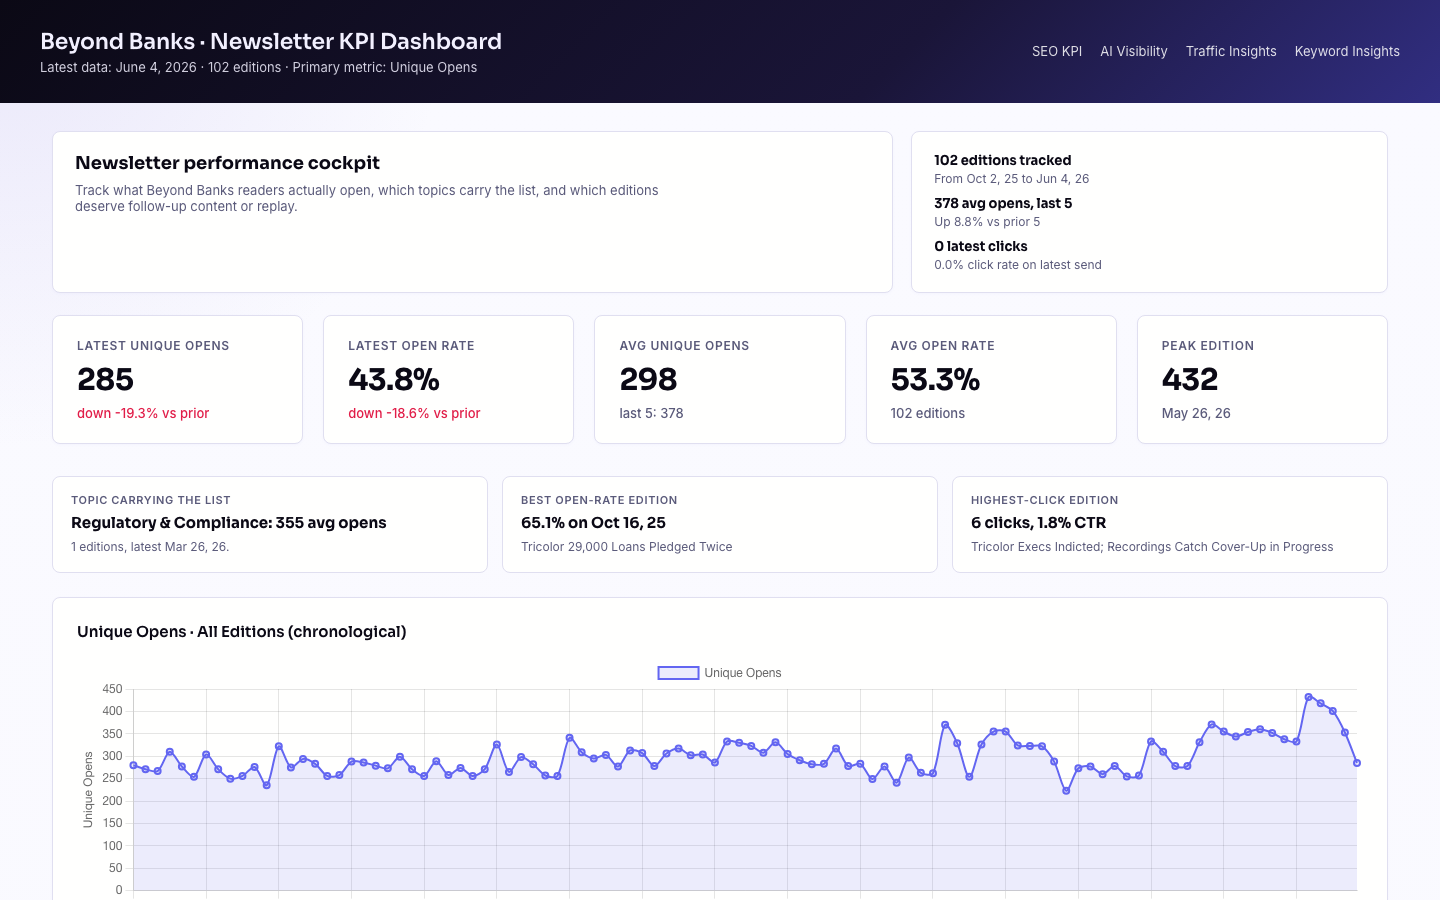
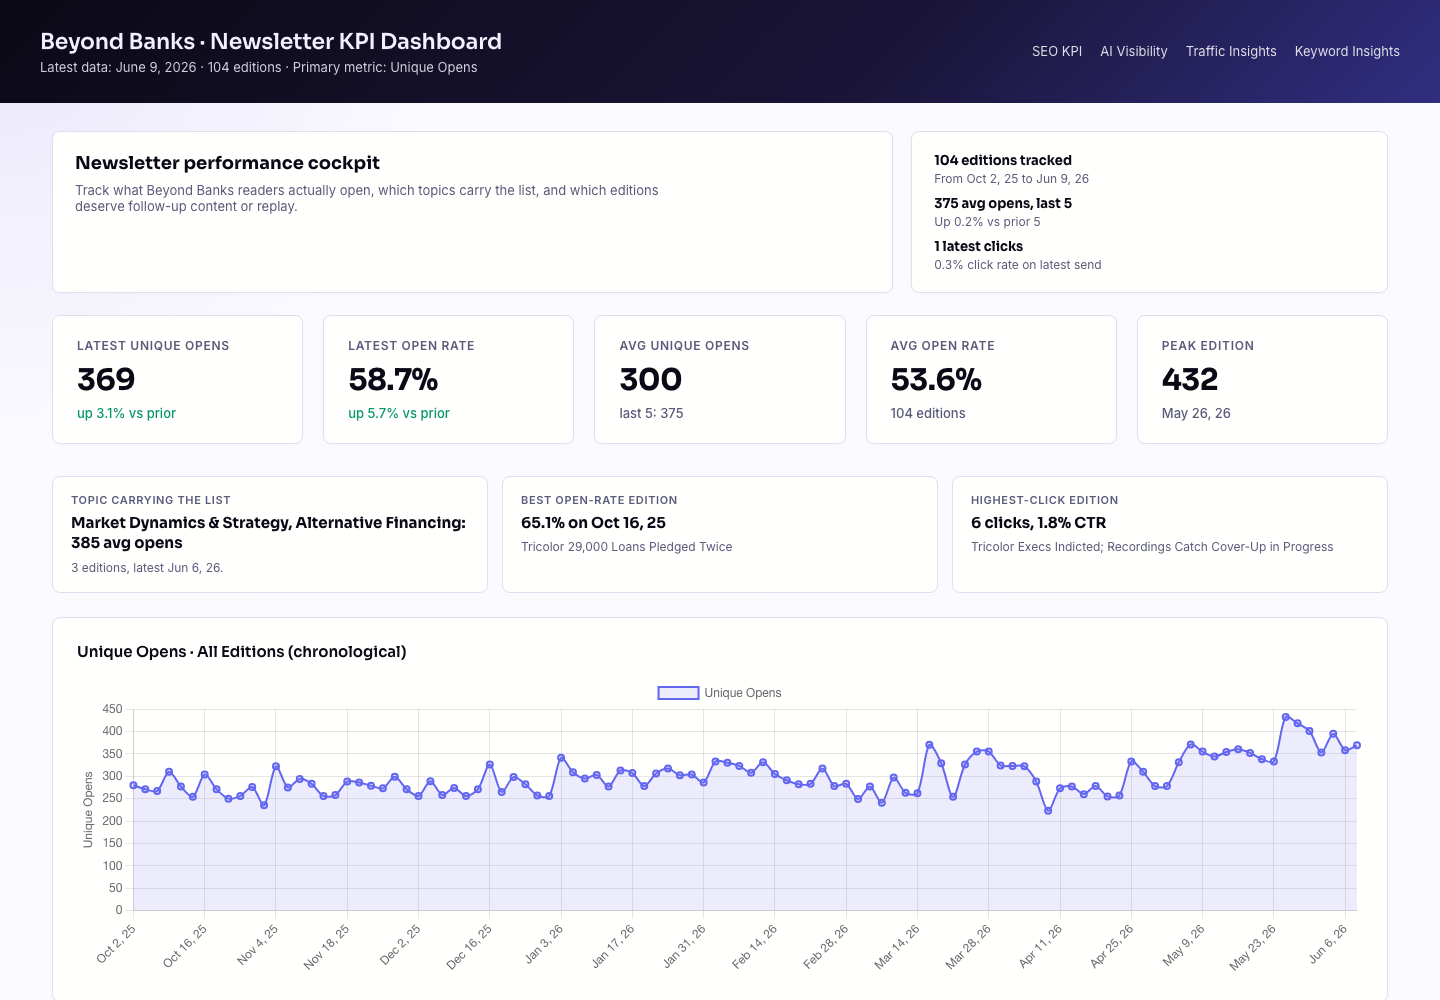
Update weekly status newsletter metrics

diff --git a/index.html b/index.html
@@ -62,7 +62,7 @@ footer{margin-top:36px;padding-top:18px;border-top:1px solid var(--border);font-
 <div class="report-actions" aria-label="Report actions"><a class="pdf-button" href="weekly-status-jordan-2026-06-04-to-2026-06-10.pdf" download>Save as PDF</a></div>
 <main>
   <div class="lede">
-    Biggest signal this week: <strong>traffic has normalized hard after the May spike, but conversion count held.</strong> June 4 to June 10 closed at <strong>6.5K users</strong>, <strong>7.4K sessions</strong>, <strong>10.7K views</strong>, <strong>4 booked calls</strong>, and <strong>22 created accounts</strong>. Newsletter KPI is current through June 4: the latest edition sent to <strong>650</strong>, produced <strong>285 unique opens</strong>, a <strong>43.81% open rate</strong>, <strong>0 clicks</strong>, and <strong>2 unsubscribes</strong>; the last 5 editions averaged <strong>378 unique opens</strong> and a <strong>50.89% open rate</strong>.
+    Biggest signal this week: <strong>traffic has normalized hard after the May spike, but conversion count held.</strong> June 4 to June 10 closed at <strong>6.5K users</strong>, <strong>7.4K sessions</strong>, <strong>10.7K views</strong>, <strong>4 booked calls</strong>, and <strong>22 created accounts</strong>. Newsletter KPI is current through June 9: the latest edition sent to <strong>630</strong>, produced <strong>369 unique opens</strong>, a <strong>58.66% open rate</strong>, <strong>1 click</strong>, and <strong>1 unsubscribe</strong>; the last 5 editions averaged <strong>375 unique opens</strong> and a <strong>58.01% open rate</strong>.
   </div>
 
   <section class="module">
@@ -75,7 +75,7 @@ footer{margin-top:36px;padding-top:18px;border-top:1px solid var(--border);font-
         <li><strong>Domain Rating</strong> remains on the OpenPageRank scale at 3.27/10, checked June 11. OpenPageRank is a different scale from the old Ahrefs DR.</li>
         <li><strong>AI Visibility</strong> is current from the June 7 AEO run: 37.66% combined mention rate, 58 of 154 prompts cited by at least one engine.</li>
         <li><strong>AEO wins</strong> are still strongest around Secretary of State API and Cobalt vs Middesk prompts; the biggest gaps remain registered-business, Texas, New York, and step-by-step SOS API queries.</li>
-        <li><strong>Newsletter</strong> latest tracked edition is June 4: Deposit-Funded Fintechs Move to Undercut Alt Lenders sent to 650, with 285 unique opens, 43.81% open rate, 0 clicks, and 2 unsubscribes.</li>
+        <li><strong>Newsletter</strong> latest tracked edition is June 9: FDIC Flips, Backs Lenders in Colorado Rate-Cap Case sent to 630, with 369 unique opens, 58.66% open rate, 1 click, and 1 unsubscribe.</li>
         <li><strong>YouTube</strong> is unchanged from the corrected Content Type export through June 4: 11,759 views, 7,041 engaged views, 105.0 watch hours, 23 Shorts published, and net -12 subscribers.</li>
       </ul>
     </div>